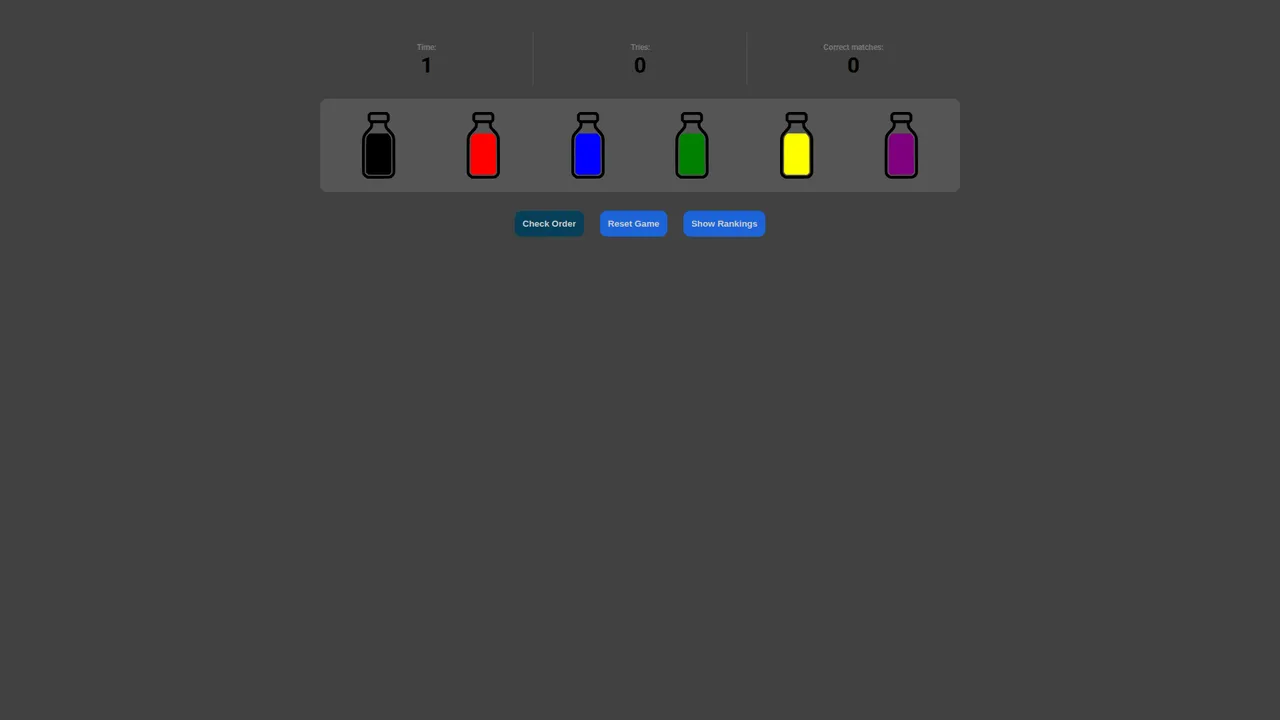
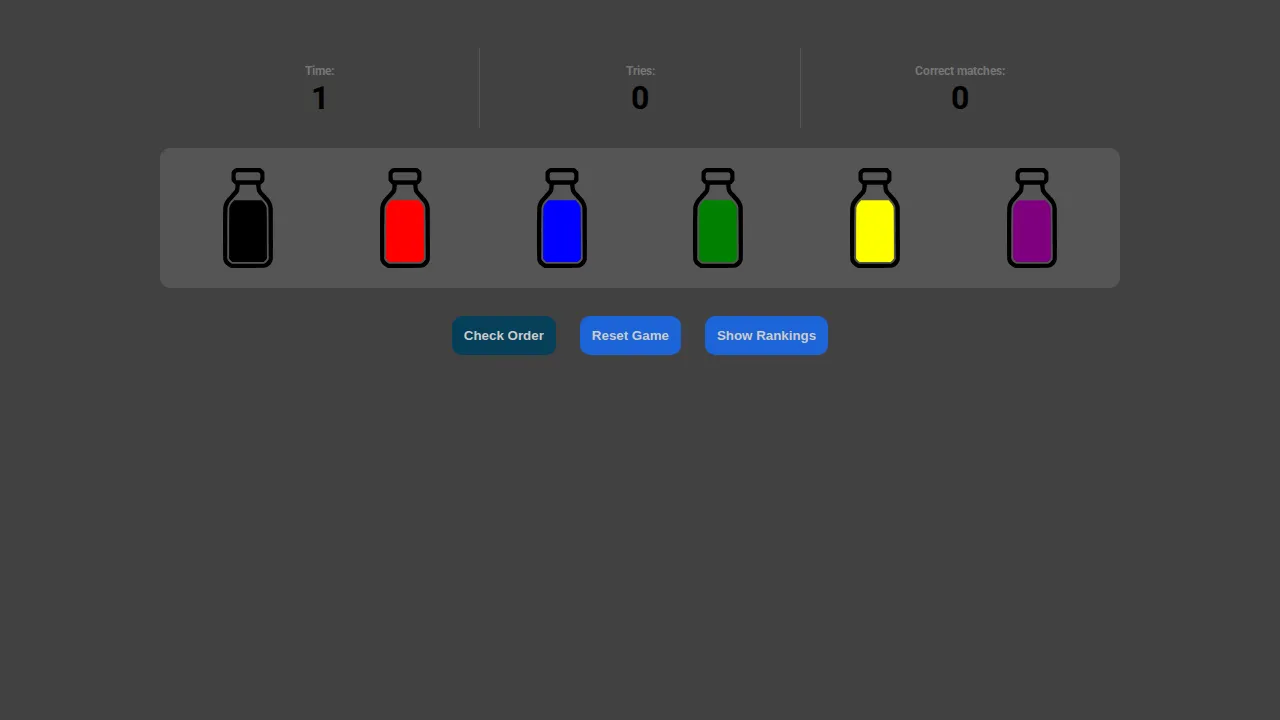
feat: add more project gallery shots (#7)
Gallery captions for images past the first two were read from index 0, so they showed the wrong caption. Offset them by the number of inline shots.

diff --git a/app/data/projects.ts b/app/data/projects.ts
@@ -42,7 +42,13 @@ export const projects: Project[] = [
     detail: true,
     media: {
       cover: 'images/perplex-image/cover.webp',
-      gallery: ['images/perplex-image/play.webp', 'images/perplex-image/picker.webp']
+      gallery: [
+        'images/perplex-image/play.webp',
+        'images/perplex-image/picker.webp',
+        'images/perplex-image/grid.webp',
+        'images/perplex-image/preview.webp',
+        'images/perplex-image/pause.webp'
+      ]
     },
     meta: { year: 2024, type: 'personal' }
   },
@@ -98,7 +104,12 @@ export const projects: Project[] = [
     detail: true,
     media: {
       cover: 'images/match-colours/cover.webp',
-      gallery: ['images/match-colours/game.webp']
+      gallery: [
+        'images/match-colours/levels.webp',
+        'images/match-colours/easy.webp',
+        'images/match-colours/game.webp',
+        'images/match-colours/hard.webp'
+      ]
     },
     meta: { year: 2024, type: 'personal' }
   },
@@ -113,7 +124,13 @@ export const projects: Project[] = [
     detail: true,
     media: {
       cover: 'images/sudoku/cover.webp',
-      gallery: ['images/sudoku/start.webp', 'images/sudoku/board.webp']
+      gallery: [
+        'images/sudoku/start.webp',
+        'images/sudoku/board.webp',
+        'images/sudoku/levels.webp',
+        'images/sudoku/hard.webp',
+        'images/sudoku/pencil.webp'
+      ]
     },
     meta: { year: 2024, type: 'personal' }
   },
@@ -130,7 +147,13 @@ export const projects: Project[] = [
       video: 'videos/screencaster.mp4',
       poster: 'images/screencaster/poster.webp',
       cover: 'images/screencaster/cover.webp',
-      gallery: ['images/screencaster/script.webp', 'images/screencaster/render.webp']
+      gallery: [
+        'images/screencaster/script.webp',
+        'images/screencaster/render.webp',
+        'images/screencaster/progress.webp',
+        'images/screencaster/output.webp',
+        'images/screencaster/tour.webp'
+      ]
     },
     meta: { year: 2026, type: 'personal' }
   },
@@ -147,7 +170,13 @@ export const projects: Project[] = [
       video: 'videos/first-million.mp4',
       poster: 'images/first-million/poster.webp',
       cover: 'images/first-million/cover.webp',
-      gallery: ['images/first-million/setup.webp', 'images/first-million/margin-call.webp']
+      gallery: [
+        'images/first-million/setup.webp',
+        'images/first-million/margin-call.webp',
+        'images/first-million/trade-open.webp',
+        'images/first-million/trade-history.webp',
+        'images/first-million/stake.webp'
+      ]
     },
     meta: { year: 2026, type: 'personal' }
   },
@@ -170,7 +199,8 @@ export const projects: Project[] = [
         'images/robak-remonty/services.webp',
         'images/robak-remonty/admin.webp',
         'images/robak-remonty/hero.webp',
-        'images/robak-remonty/contact.webp'
+        'images/robak-remonty/contact.webp',
+        'images/robak-remonty/dark.webp'
       ]
     },
     meta: { year: 2026, type: 'commercial' }

diff --git a/app/components/project/Gallery.vue b/app/components/project/Gallery.vue
@@ -5,7 +5,9 @@ const props = withDefaults(defineProps<{
   /** how many placeholder tiles to show when there are no images */
   placeholders?: number
   cols?: 2 | 3
-}>(), { images: () => [], placeholders: 3, cols: 3 })
+  /** index of the first image within the project's full gallery, so captions line up */
+  offset?: number
+}>(), { images: () => [], placeholders: 3, cols: 3, offset: 0 })
 
 const { t, te } = useI18n()
 const publicUrl = usePublicUrl()
@@ -14,7 +16,7 @@ const tiles = computed(() =>
   props.images.length
     ? props.images.map((src, i) => ({
         src,
-        caption: te(`projects.${props.slug}.gallery.${i}`) ? t(`projects.${props.slug}.gallery.${i}`) : ''
+        caption: te(`projects.${props.slug}.gallery.${props.offset + i}`) ? t(`projects.${props.slug}.gallery.${props.offset + i}`) : ''
       }))
     : Array.from({ length: props.placeholders }, () => ({ src: '', caption: t('project.galleryCaption') }))
 )

diff --git a/app/pages/projects/[slug].vue b/app/pages/projects/[slug].vue
@@ -145,7 +145,7 @@ usePageSeo(() => ({
     <section v-if="!gallery || moreImages.length" class="border-b border-border">
       <div class="container-page flex flex-col gap-6 py-12 md:py-[88px]">
         <h2 class="font-mono text-[13px] font-normal text-accent">{{ t('project.gallery') }}</h2>
-        <ProjectGallery :slug="p.slug" :images="gallery ? moreImages : []" :placeholders="3" />
+        <ProjectGallery :slug="p.slug" :images="gallery ? moreImages : []" :offset="shots?.length ?? 0" :placeholders="3" />
       </div>
     </section>
 
